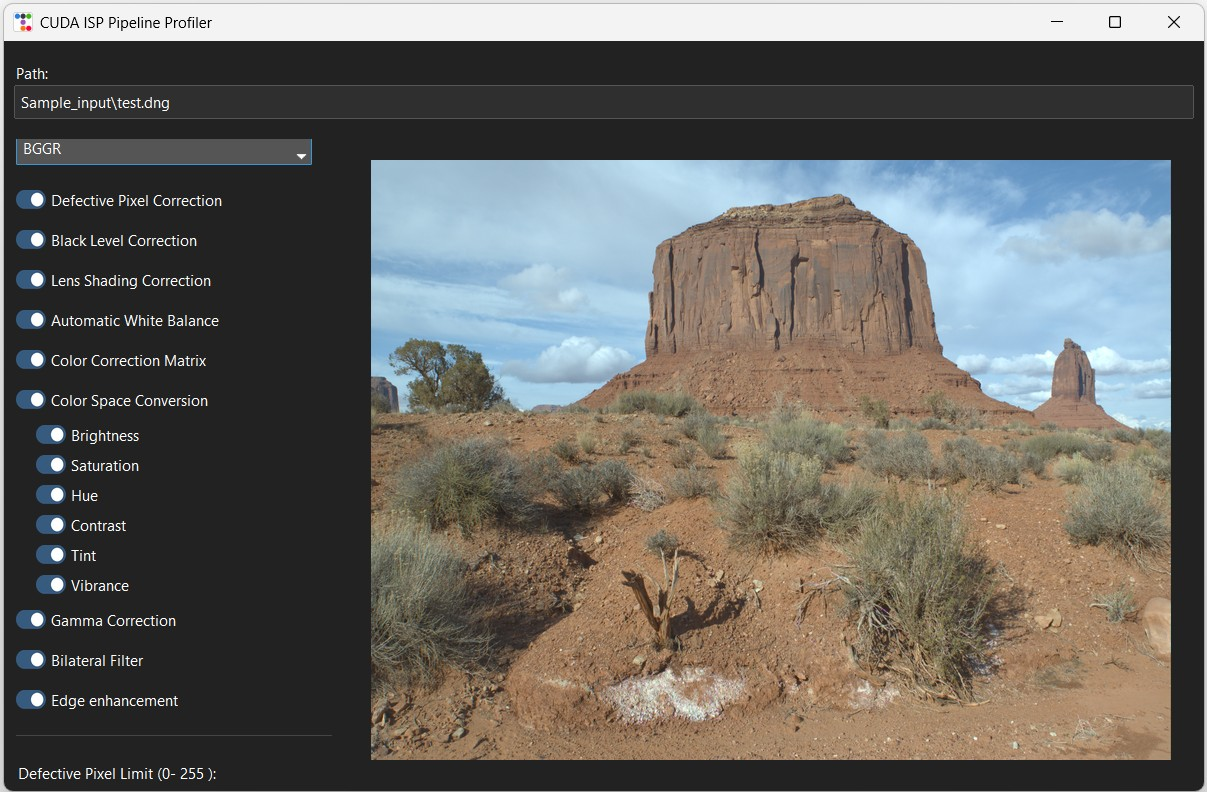
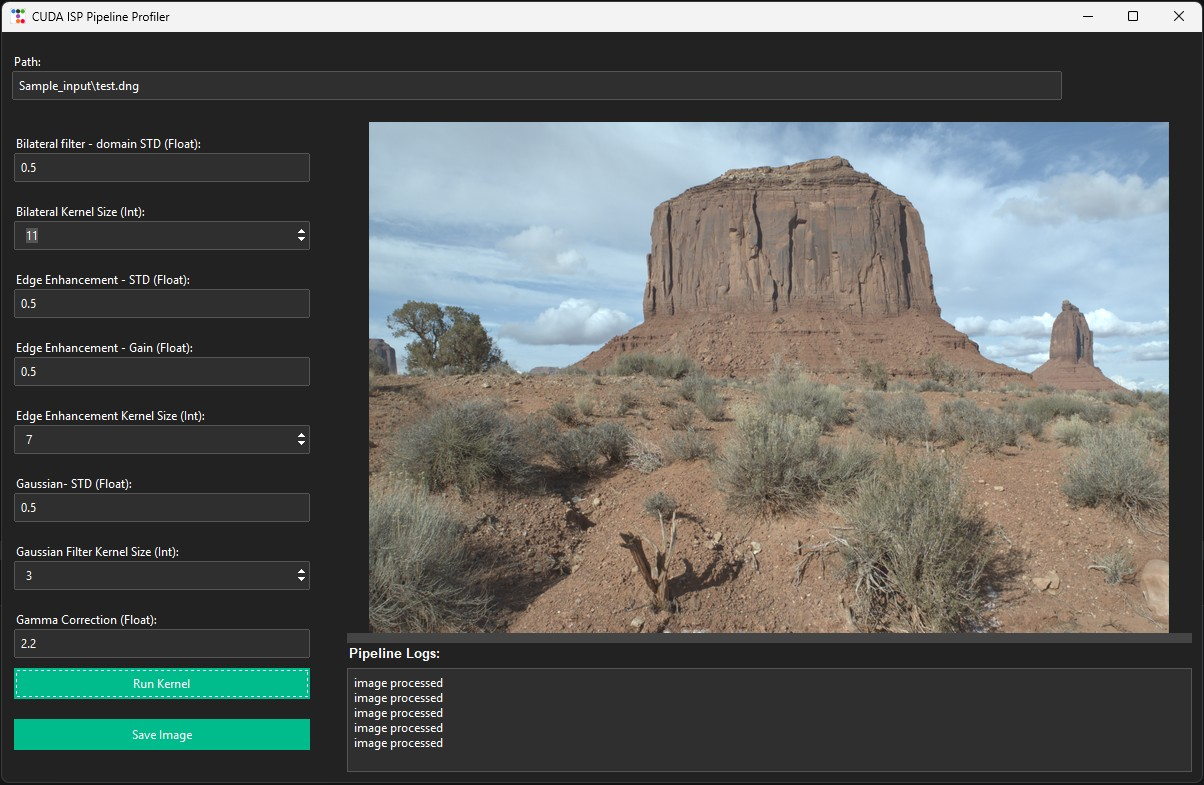
Updated Readme

diff --git a/readme.md b/readme.md
@@ -36,7 +36,9 @@ A High-Performance GPU-accelerated Cuda based Image Signal Processor(ISP) that t
 
 ### Image Enhancement
 - Bilateral Filter
+- Joint Bilateral filter (Luma guided filtering - Chroma denoising)
 - Highboost filtering
+- Gaussian Blue
 
 # Tech Stack
 
@@ -93,7 +95,6 @@ input the path to the raw image and press enter to load. The toogle button can b
 # Future work
 
 - Guided Filter
-- chroma denoising
 - histogram equilization
 - image compression
 